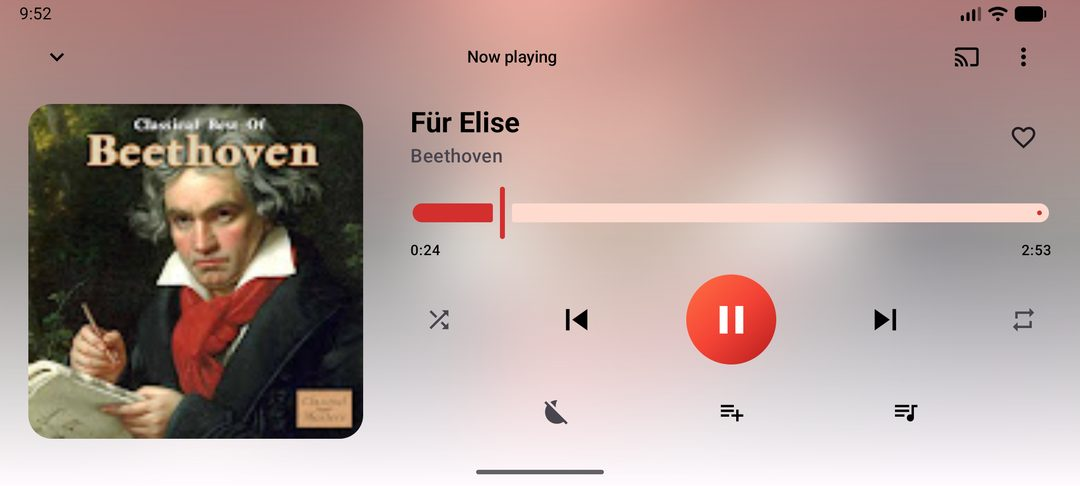
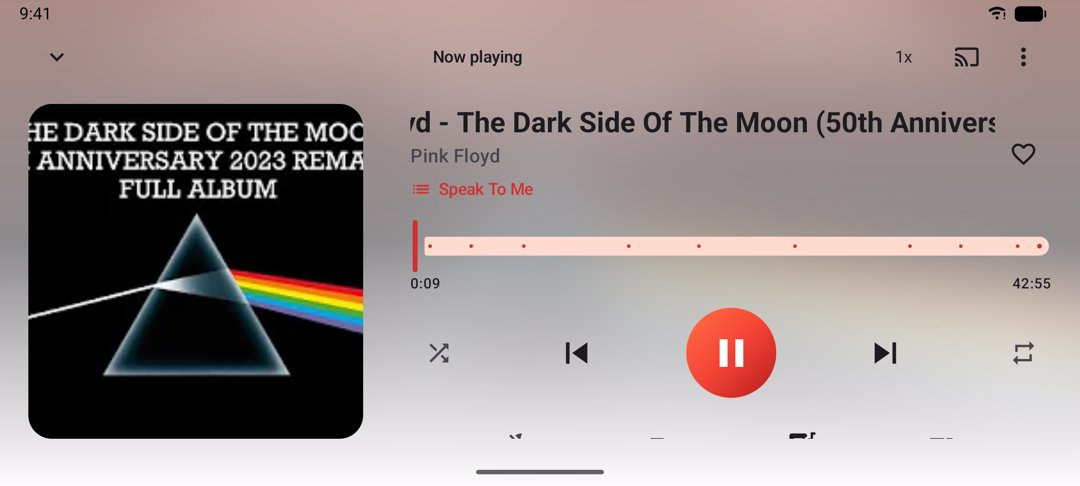
Refresh screenshots and feature lists for 2.0.10
New screenshots of Home (wordmark), Now Playing with chapters, synced lyrics,
Your stats and the wide layout. The README lists chapters, the equalizer,
crossfade and speed, and the languages (with how to add one); the Pages home
page gets a short feature list and the screenshots.

diff --git a/README.md b/README.md
@@ -5,8 +5,10 @@ Official builds send crash reports (Firebase Crashlytics: device model and
 crash details, no personal data), which you can turn off in Settings.
 
 <p>
-  <img src="docs/screenshots/search.jpg" width="270" alt="Search results">
-  <img src="docs/screenshots/now-playing.jpg" width="270" alt="Now Playing">
+  <img src="docs/screenshots/home.jpg" width="200" alt="Home">
+  <img src="docs/screenshots/now-playing.jpg" width="200" alt="Now Playing, with chapters">
+  <img src="docs/screenshots/lyrics.jpg" width="200" alt="Synced lyrics">
+  <img src="docs/screenshots/stats.jpg" width="200" alt="Your stats">
 </p>
 <img src="docs/screenshots/landscape.jpg" width="560" alt="Now Playing on a wide screen">
 
@@ -21,9 +23,12 @@ crash details, no personal data), which you can turn off in Settings.
 - **Even-out volume** between loud and quiet uploads.
 - **Skip non-music sections** such as intros and talking, using [SponsorBlock](https://sponsor.ajay.app).
 - **Synced lyrics** that follow the song (tap a line to jump there), from [LRCLIB](https://lrclib.net).
+- **Chapters** for full albums, DJ mixes and live sets: see the current chapter and jump between them.
+- **Equalizer** with presets and bass boost, **crossfade** between songs, and **playback speed** from 0.5x to 2x.
 - **Android Auto**, including voice search, and **Chromecast**.
 - **Android TV / Fire TV** and tablet layouts, with full D-pad support.
 - **Optional Google sign-in** to sync your library, or backup and restore to a file.
+- In **English, Spanish and Brazilian Portuguese**. Translations are welcome: copy `app/src/main/res/values/strings.xml` into a `values-xx` folder and add the language to `res/xml/locales_config.xml`.
 
 ## Install
 

diff --git a/docs/index.md b/docs/index.md
@@ -6,6 +6,24 @@ title: FireTube
 
 A free, open-source music player for Android, Android TV and Android Auto. It plays music from YouTube, with no ads.
 
+<p>
+  <img src="screenshots/home.jpg" width="180" alt="Home">
+  <img src="screenshots/now-playing.jpg" width="180" alt="Now Playing, with chapters">
+  <img src="screenshots/lyrics.jpg" width="180" alt="Synced lyrics">
+  <img src="screenshots/stats.jpg" width="180" alt="Your stats">
+</p>
+
+## What it does
+
+- Search songs, videos and playlists, or paste a YouTube link.
+- Background playback with a home-screen widget, sleep timer and radio-style autoplay.
+- Synced lyrics, chapters for full albums and mixes, and your listening stats.
+- Equalizer, crossfade and playback speed.
+- Playlists, favorites, offline downloads and Android Auto / Chromecast.
+- Works on phones, tablets, Android TV and Fire TV, in English, Spanish and Brazilian Portuguese.
+
+## Get it
+
 - [Download the latest release](https://github.com/PalmerinTek/firetube/releases/latest)
 - [Source code](https://github.com/PalmerinTek/firetube)
 - [Privacy policy](privacy.html)
